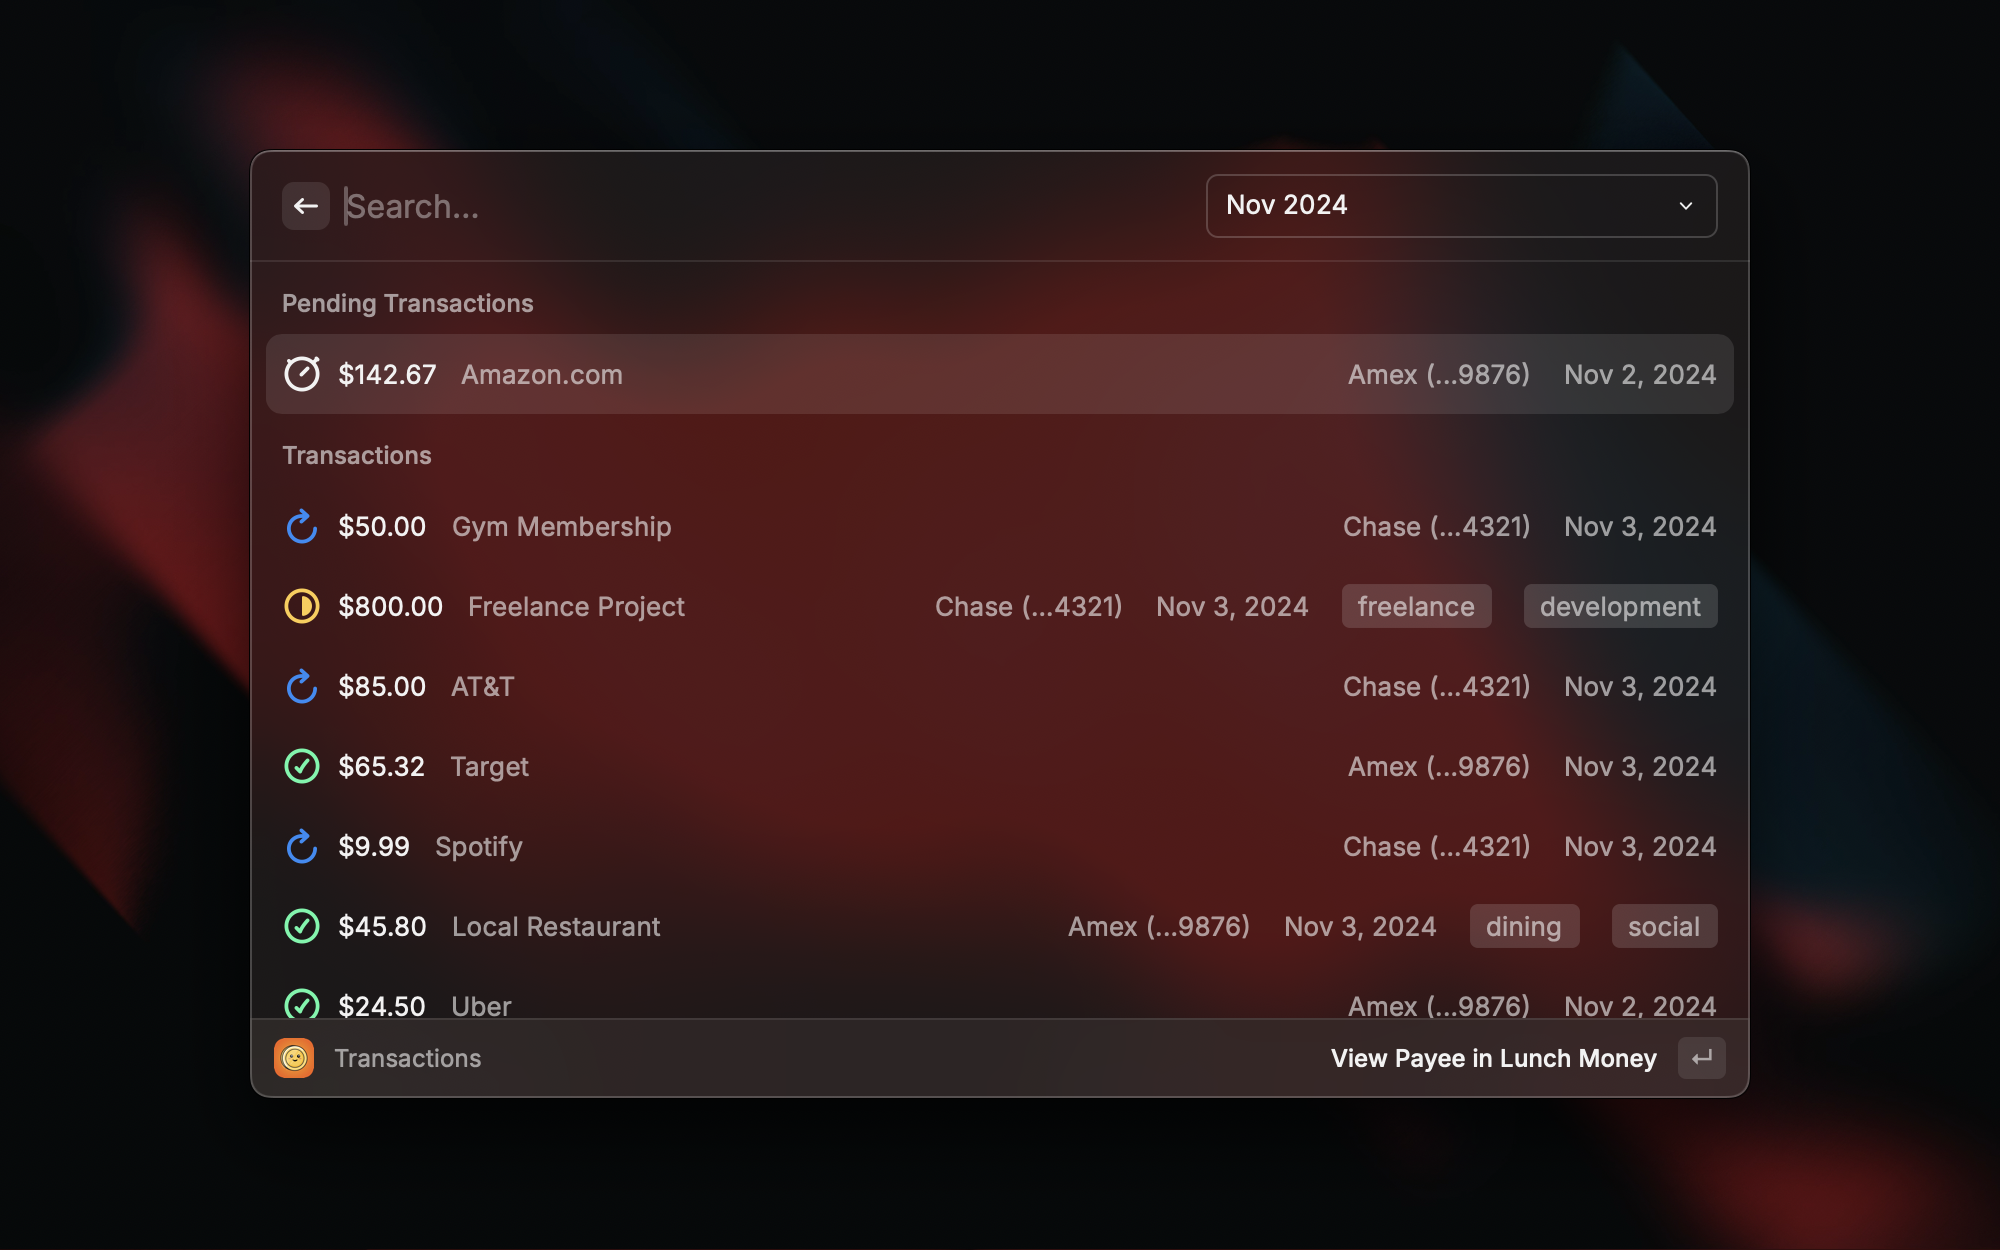
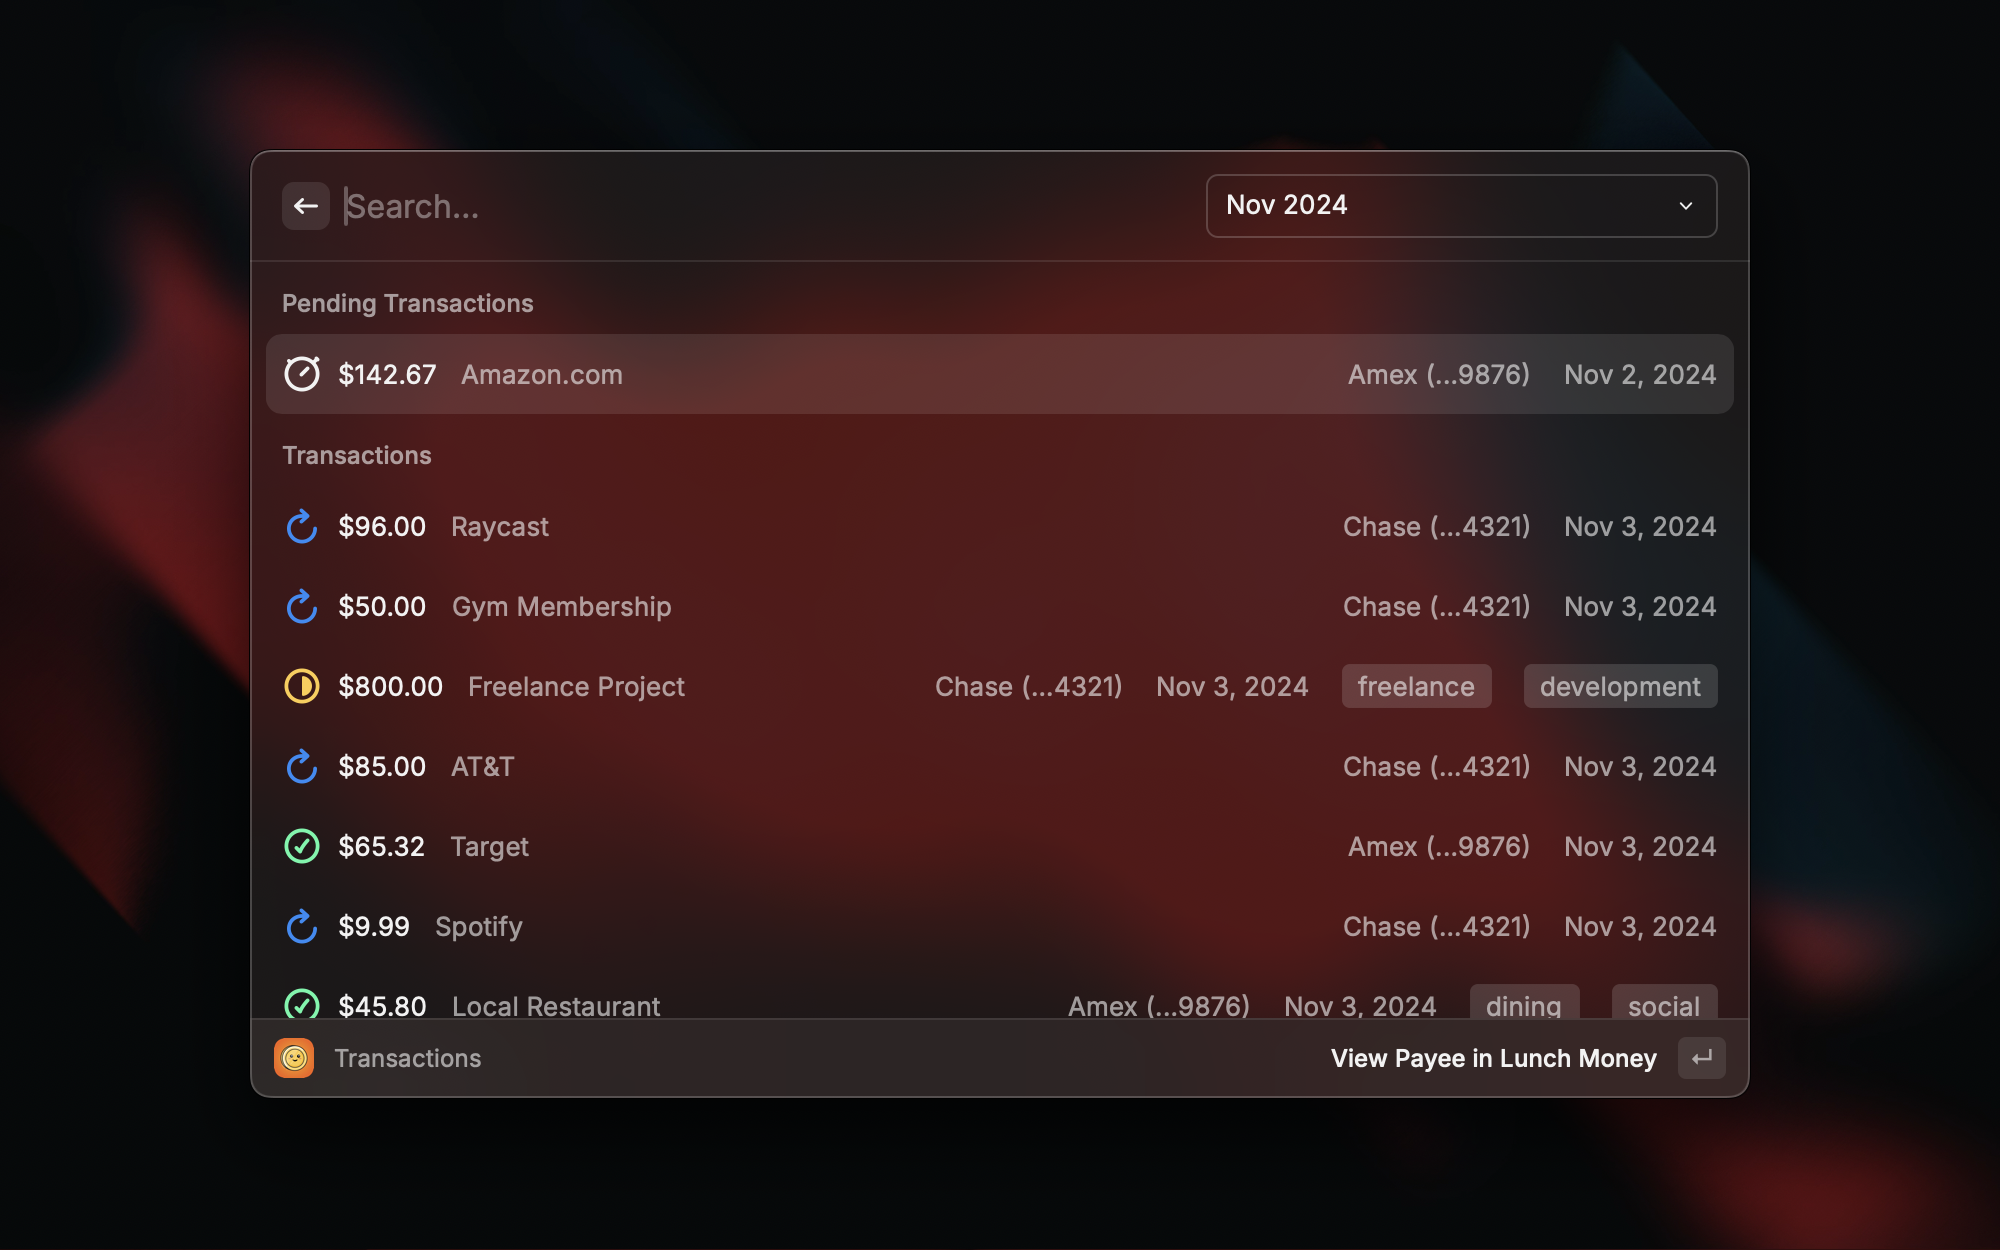
chore: update metadata screenshot
should've put a raycast transactions in the first place

diff --git a/src/dev.ts b/src/dev.ts
@@ -38,16 +38,16 @@ const sampleTransactions: Transaction[] = [
   },
   {
     id: 1002,
-    created_at: "2024-11-01T09:15:00Z",
-    updated_at: "2024-11-01T09:15:00Z",
-    date: "2024-11-01",
-    payee: "Netflix",
-    amount: "-15.99",
+    created_at: "2024-11-03T09:15:00Z",
+    updated_at: "2024-11-03T09:15:00Z",
+    date: "2024-11-03",
+    payee: "Raycast",
+    amount: "-96.00",
     currency: "USD",
-    to_base: 15.99,
-    notes: "Monthly subscription",
+    to_base: 96,
+    notes: "Raycast Pro yearly",
     category_id: 102,
-    category_name: "Entertainment",
+    category_name: "Tools",
     asset_id: 1,
     asset_name: "Chase Checking",
     plaid_account_id: 12345,
@@ -58,11 +58,11 @@ const sampleTransactions: Transaction[] = [
     is_income: false,
     display_note: null,
     recurring_id: 2,
-    recurring_payee: "Netflix",
+    recurring_payee: "Raycast",
     recurring_type: ReccuringTransactionType.CLEARED,
-    recurring_description: "Monthly streaming service",
-    recurring_cadence: "monthly",
-    recurring_amount: 15.99,
+    recurring_description: "Raycast Pro yearly",
+    recurring_cadence: "yearly",
+    recurring_amount: 96.0,
     recurring_currency: "USD",
   },
   {
